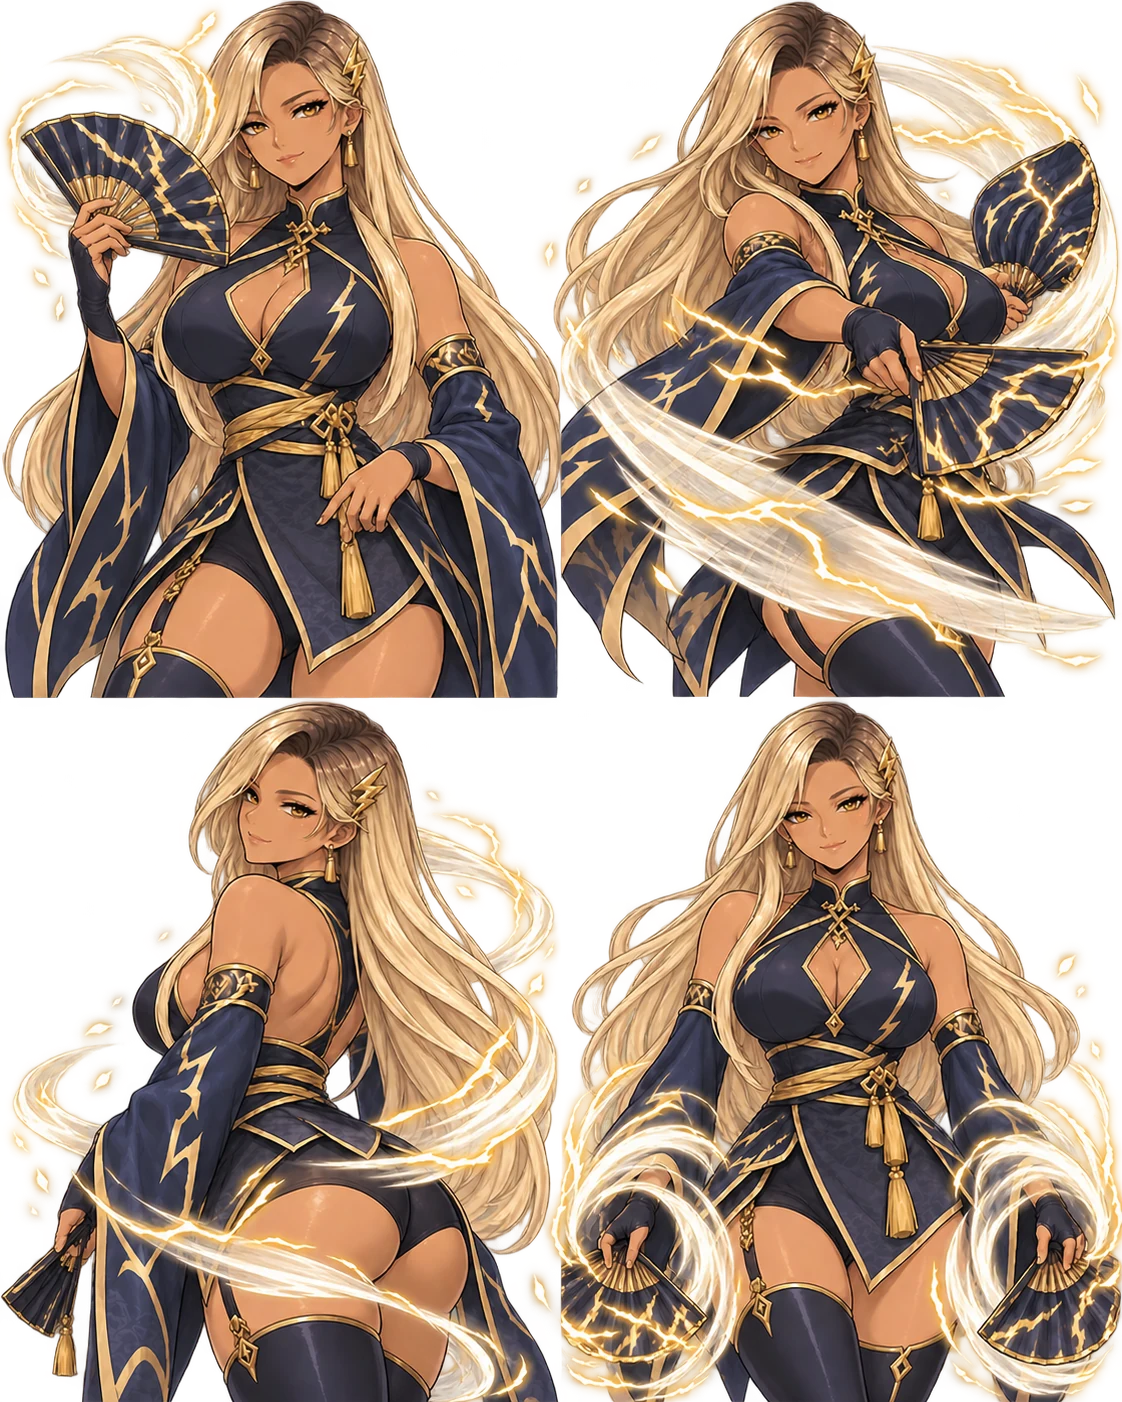
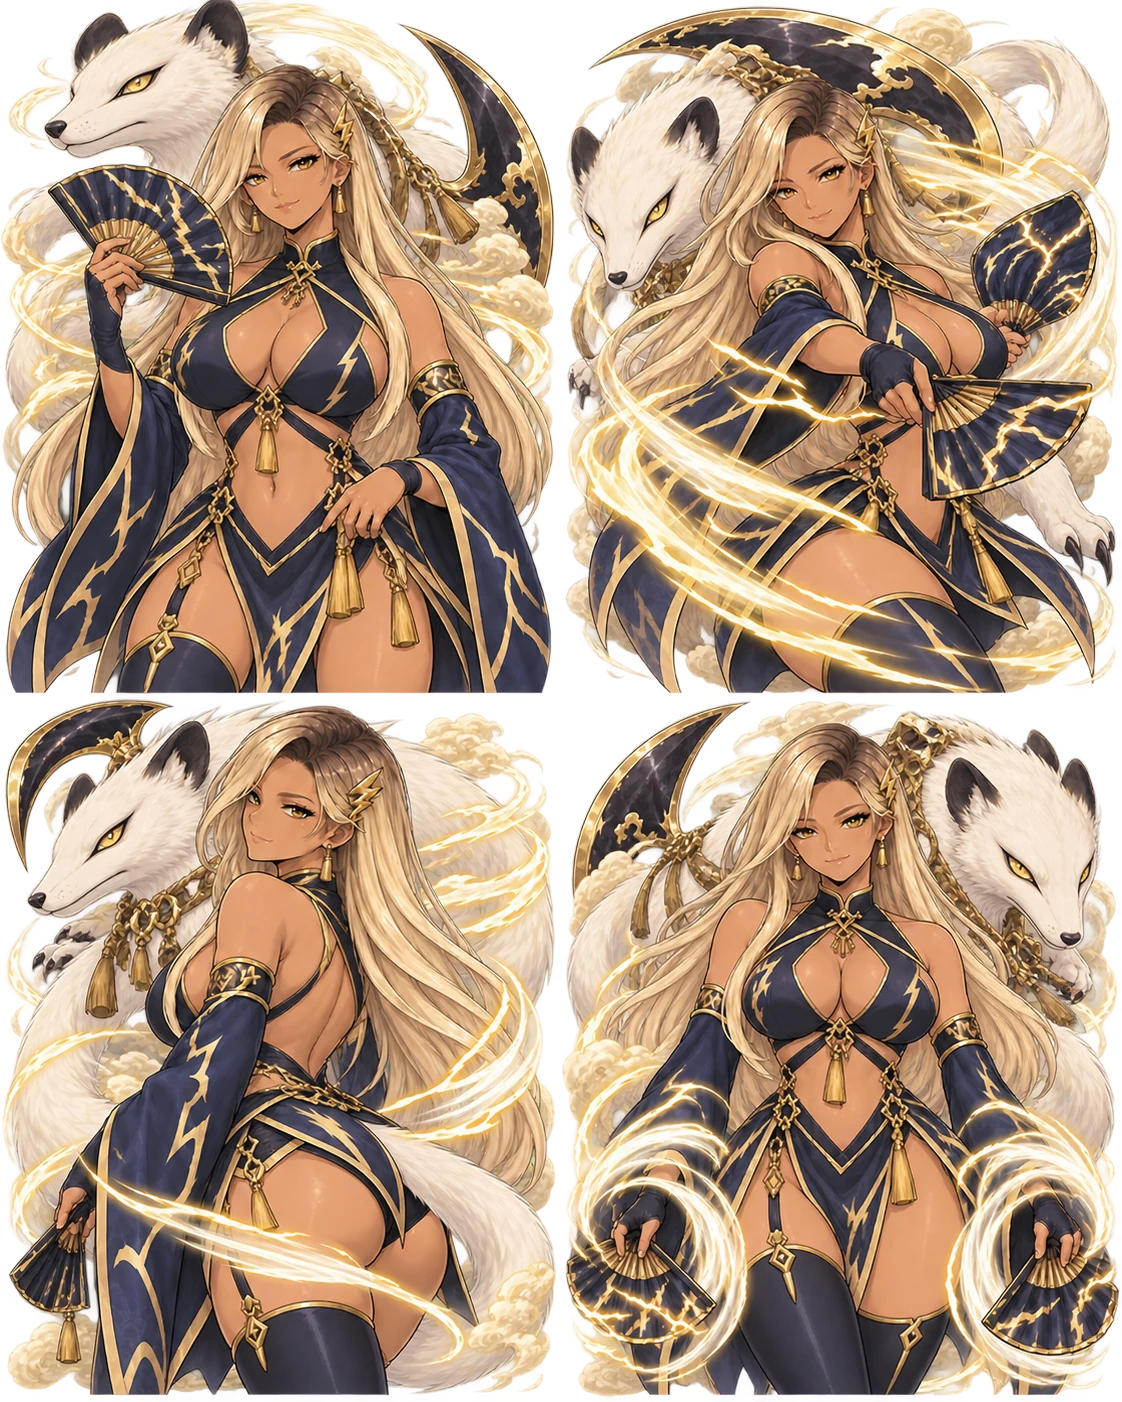
Add distinct summon backdrops and refined cast outfits

diff --git a/app.js b/app.js
@@ -337,18 +337,18 @@ function mount(root, opts) {
     const extra = alternate && pose < 2;
     const file = f.key + (extra ? (f.key === 'still' ? '-sunday' : '-pair') : '') + '-poses.webp';
     const w = extra ? 1536 : 1122, h = extra ? 1024 : 1402;
-    const cw = w / 2, ch = extra ? h : h / 2;
-    const x = (pose % 2) * cw, y = extra ? 0 : Math.floor(pose / 2) * ch;
+    const cw = w / 2, ch = extra ? h : f.key === 'tide' ? (pose < 2 ? 670 : 728) : h / 2;
+    const x = (pose % 2) * cw, y = extra ? 0 : f.key === 'tide' ? (pose < 2 ? 0 : 674) : Math.floor(pose / 2) * ch;
     const faces = {
       gale: [[50,44],[43,46],[52,23],[46,39]],
       fang: [[55,18],[47,23],[47,18],[50,21]],
-      ember: [[51,18],[45,19],[48,16],[49,20]],
-      volt: [[52,18],[49,17],[50,17],[50,18]],
-      still: [[53,21],[48,20],[49,20],[49,21]],
-      tide: [[55,32],[48,26],[55,24],[49,29]],
+      ember: [[47,33],[43,34],[49,24],[46,35]],
+      volt: [[50,27],[49,28],[50,17],[50,21]],
+      still: [[54,25],[43,26],[48,21],[48,24]],
+      tide: [[57,40],[46,39],[55,36],[51,45]],
       granite: [[55,23],[55,22],[52,22],[53,23]]
     };
-    const face = extra ? (f.key === 'still' ? [[55,22],[57,24]] : [[61,27],[51,28]])[pose] : faces[f.key][pose];
+    const face = extra ? (f.key === 'still' ? [[51,25],[56,28]] : [[57,34],[48,35]])[pose] : faces[f.key][pose];
     const src = global.FS_ART ? global.FS_ART[file] : 'art/' + file;
     const phase = ['gale','fang','ember','volt','still','tide','granite'].indexOf(f.key) * .7 + pose * .4;
     return '<svg class="fs-art fs-art-' + f.key + '" data-pose="' + f.key + '-' + (extra ? pose + 4 : pose) + '" style="--art-phase:-' + phase + 's;--zoom:270%;--fx:-' + face[0] + '%;--fy:-' + face[1] + '%" width="' + cw + '" height="' + ch + '" viewBox="0 0 ' + cw + ' ' + ch + '" preserveAspectRatio="xMidYMin slice" overflow="hidden" aria-hidden="true">' +

diff --git a/app.css b/app.css
@@ -450,6 +450,7 @@ html,body{height:100%;margin:0;background:#0c0a12}
 .fs-art-still{--zoom:218%;--fx:-49.3%;--fy:-21%;--px:49%;--py:9%}
 
 .fs-hero-art>.fs-art-gale{height:140%;transform:translateY(-30%)}
+.fs-hero-art>.fs-art-ember,.fs-hero-art>.fs-art-tide{height:135%;transform:translateY(-20%)}
 .fs-stage>.fs-art-gale{-webkit-mask-image:linear-gradient(#000 80%,transparent);mask-image:linear-gradient(#000 80%,transparent)}
 
 /* Decorative artwork moves independently of workout text and controls. */

diff --git a/sw.js b/sw.js
@@ -1,4 +1,4 @@
-const CACHE = 'floatsting-v16-living-cast';
+const CACHE = 'floatsting-v17-guardian-cast';
 const ASSETS = [
   './',
   './index.html',
